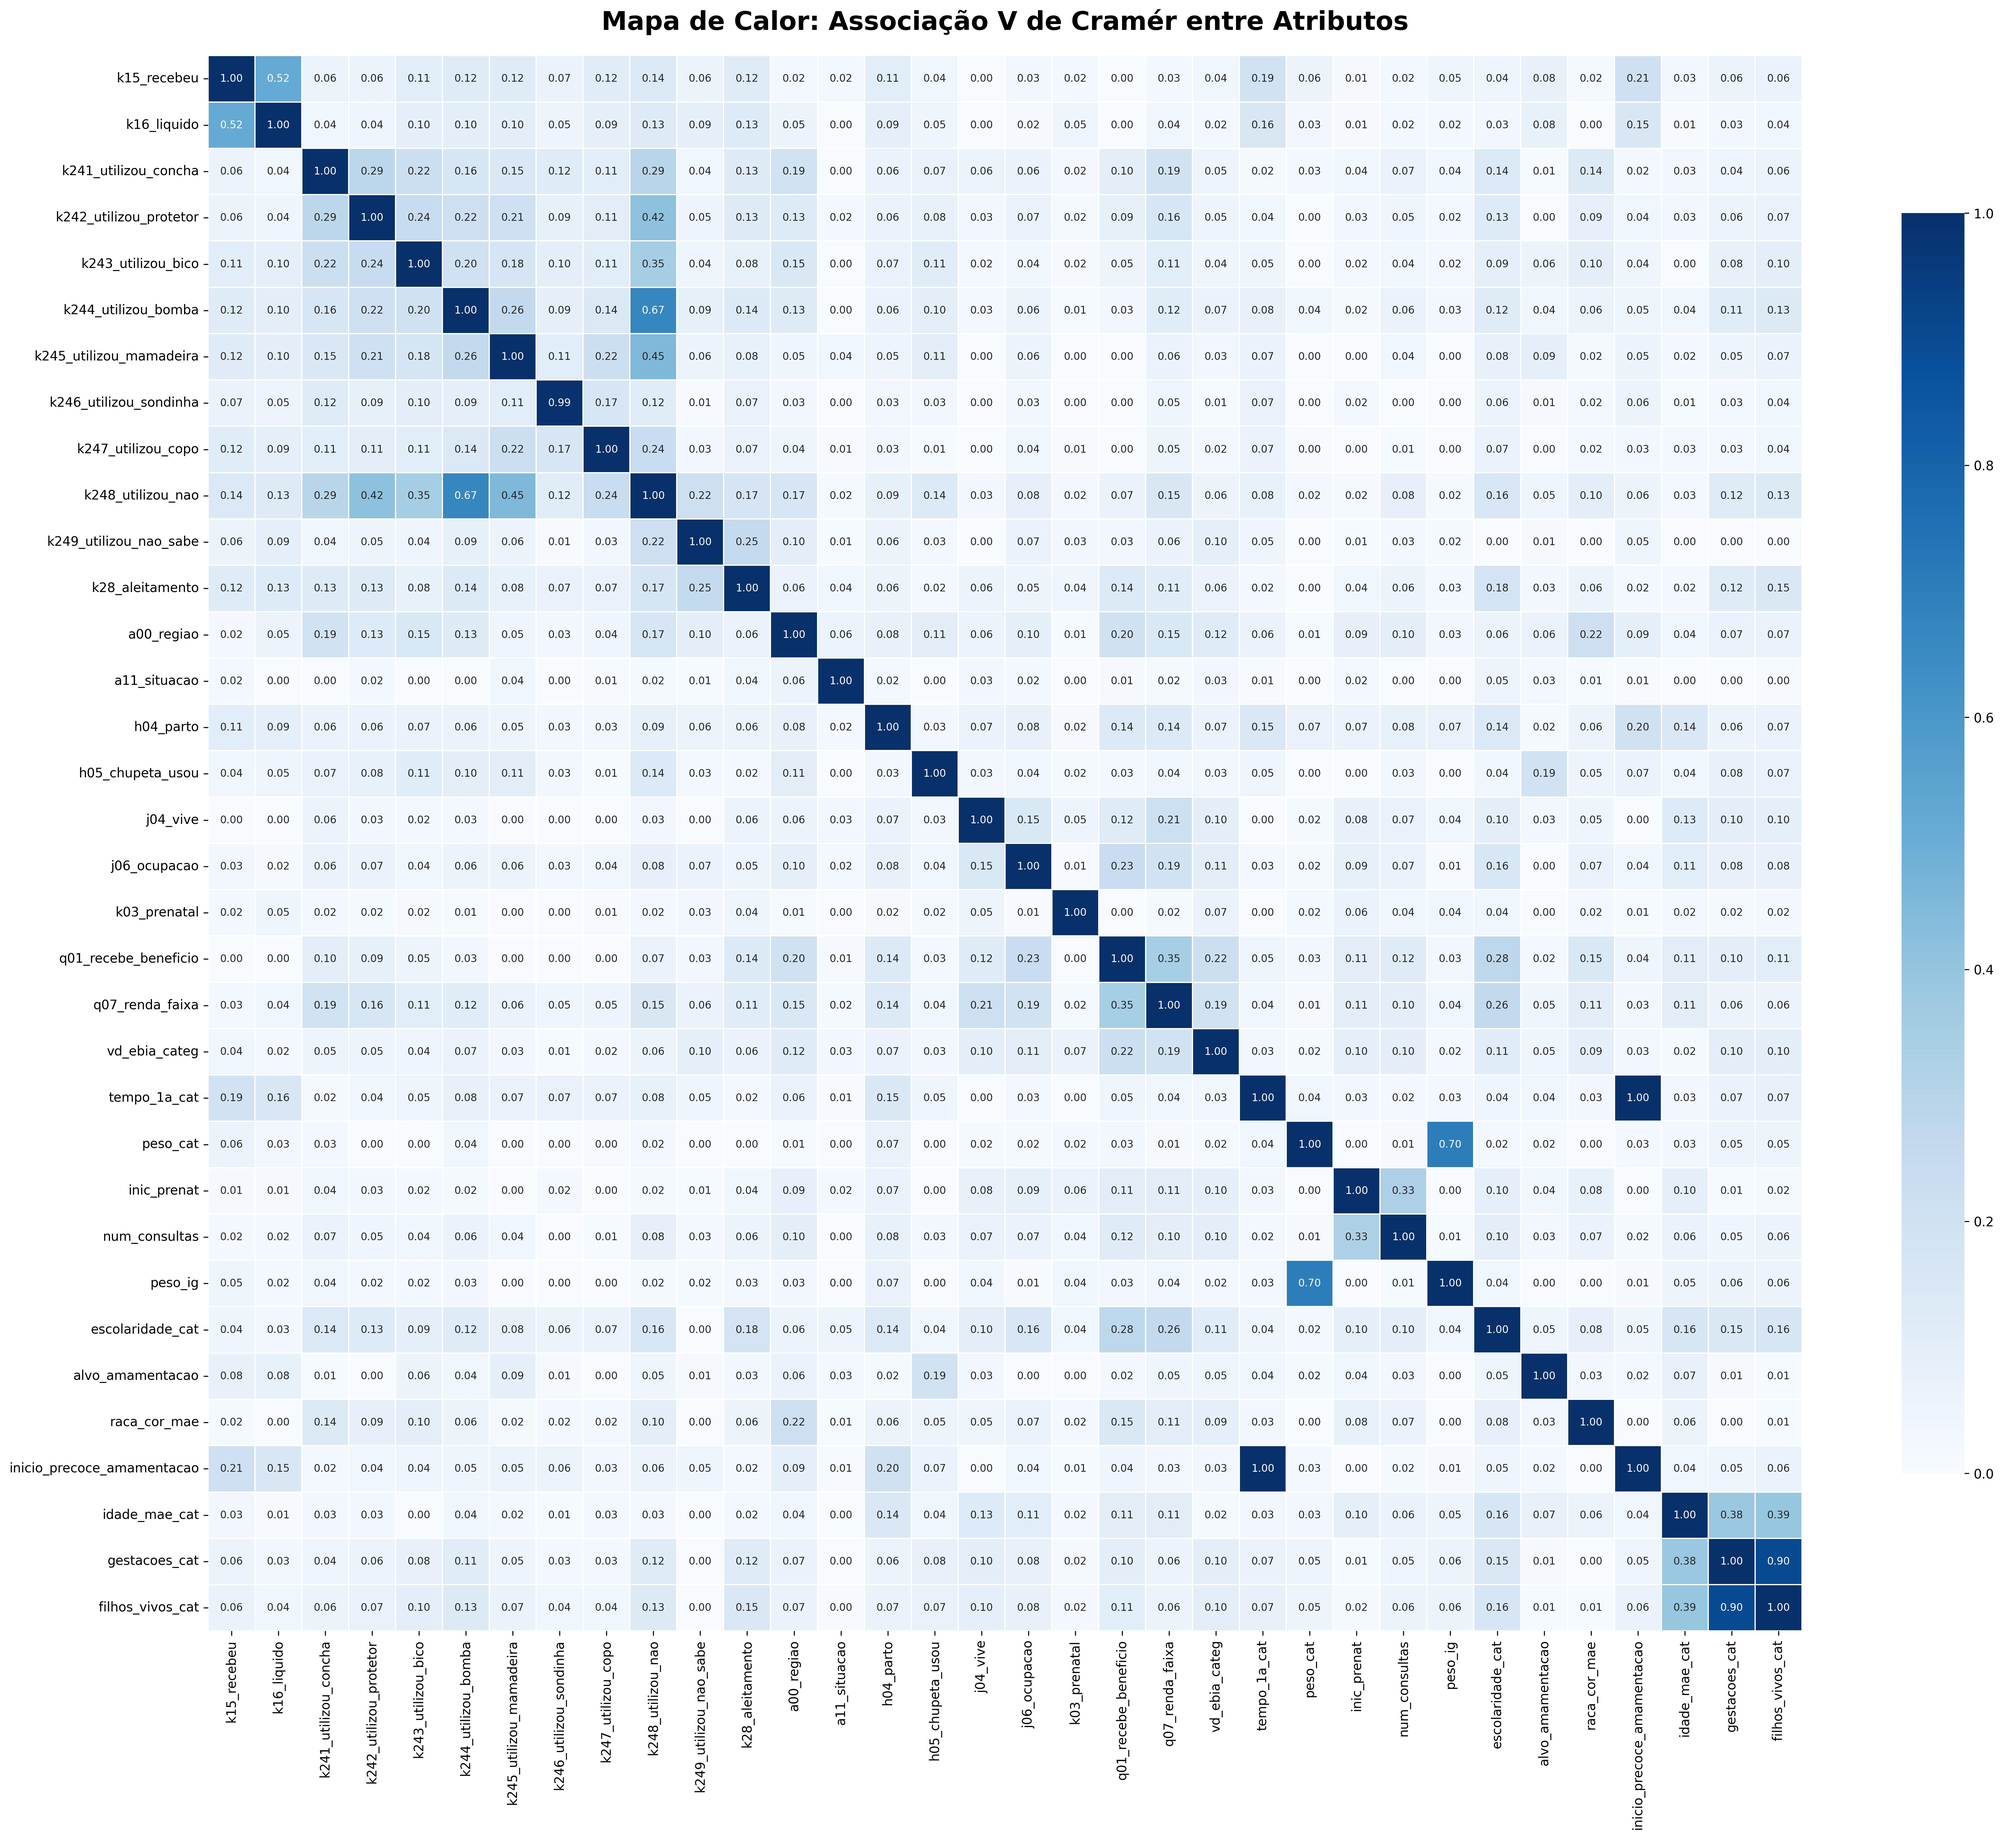
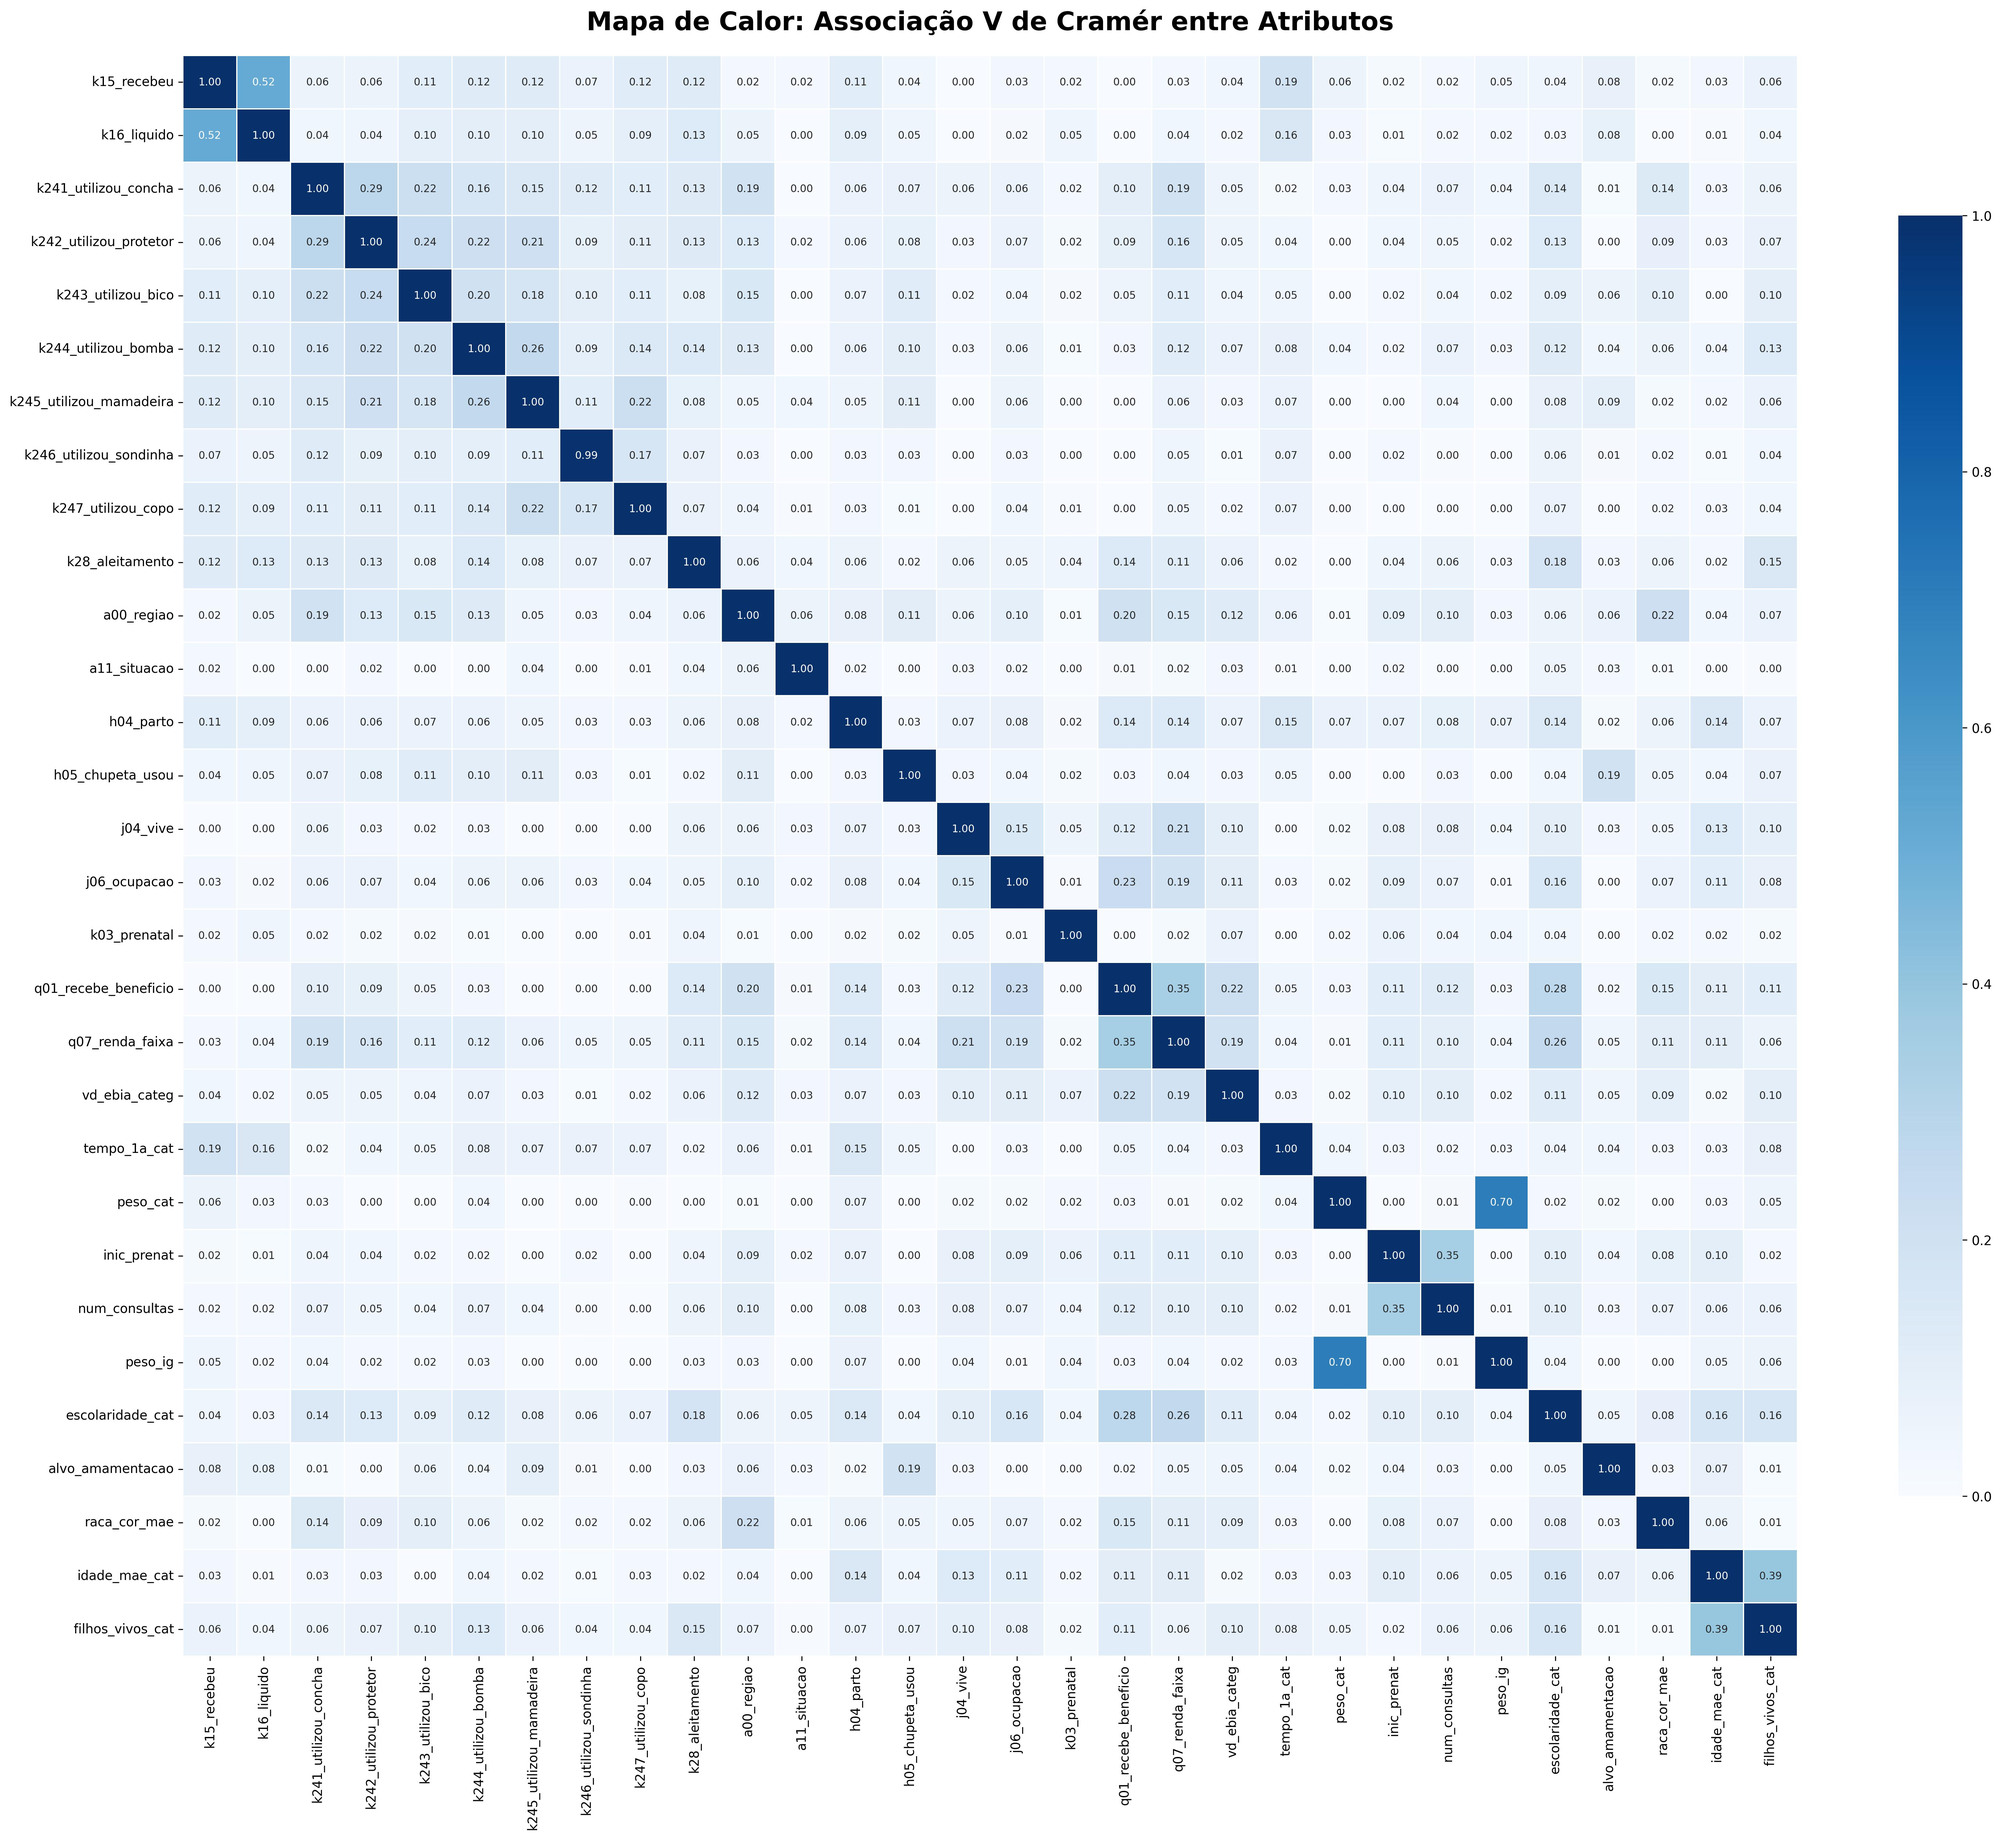
mapa correlacao dataset sem descretizar

diff --git a/pre-processamento/6-analise-correlacao.py b/pre-processamento/6-analise-correlacao.py
@@ -7,7 +7,7 @@ import matplotlib.pyplot as plt
 # ==========================================
 # 1. CONFIGURAÇÕES E CAMINHOS (Constantes)
 # ==========================================
-CAMINHO_ENTRADA = 'selecao_limpeza/dataset_amamentacao_pronto.csv'
+CAMINHO_ENTRADA = 'selecao_limpeza/mice/dataset_amamentacao_pronto.csv'
 CAMINHO_GRAFICO_CALOR = 'mapa_calor_cramers_v.jpg'
 
 # ==========================================
